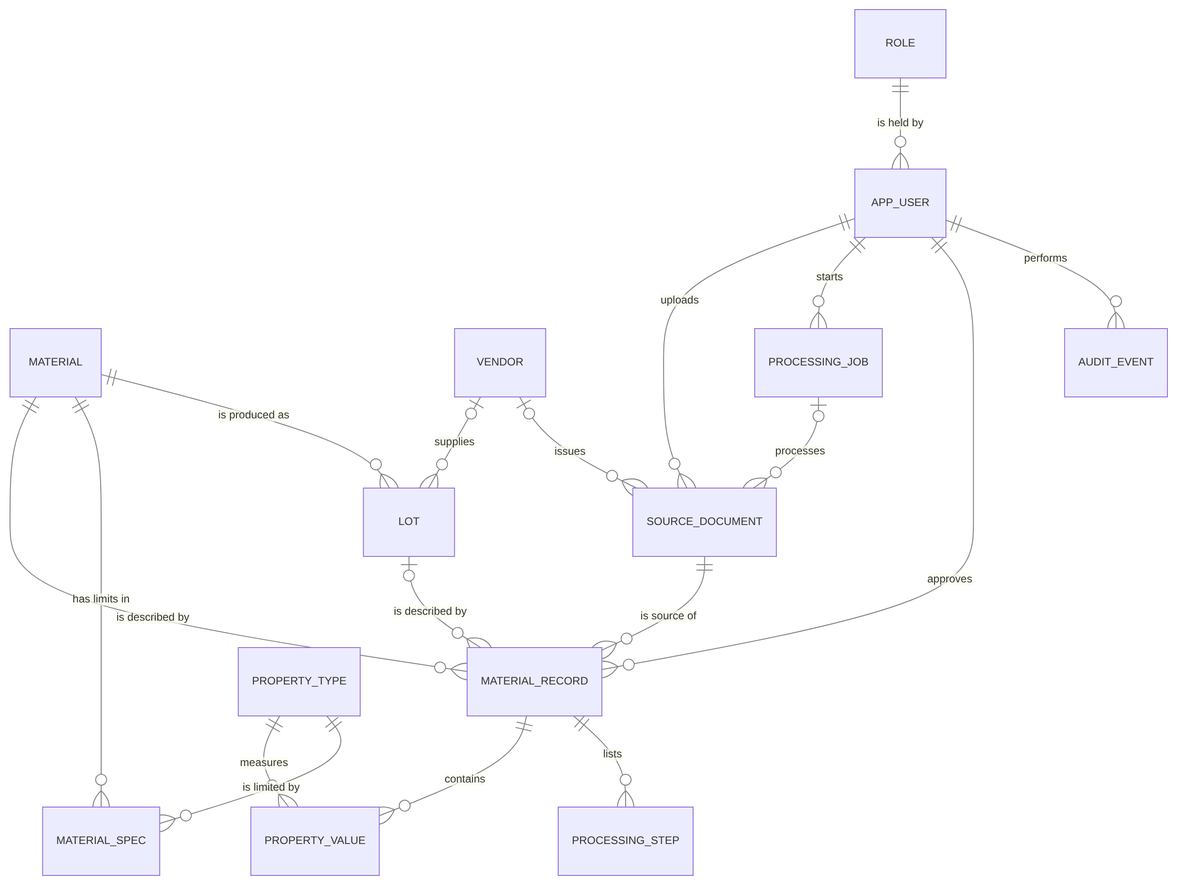
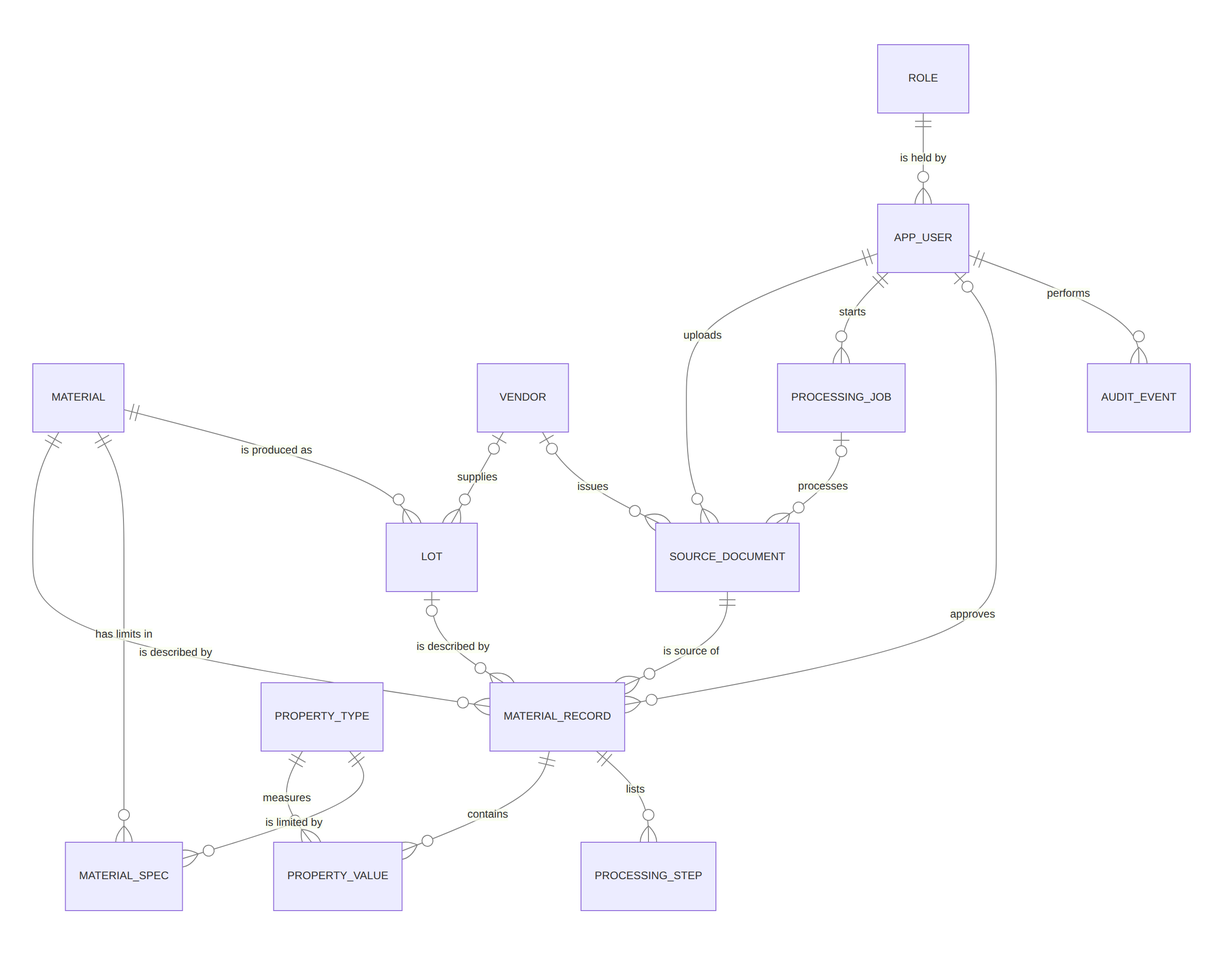
Update ER diagram and its prose (#172)
Snowflake is confirmed and PDFs go to S3 per the 2026-11-15 team call; proposal §4 now explains Figure 2.

Assisted-by: Claude

diff --git a/docs/design/er-diagram.md b/docs/design/er-diagram.md
@@ -1,17 +1,19 @@
 ## Design -- ER Diagram
-Epic: [#42](https://github.com/CPSC490-Team-Proj/CPSC490-G07-MightyMorphin/issues/42) · Stories: [#48](https://github.com/CPSC490-Team-Proj/CPSC490-G07-MightyMorphin/issues/48), [#18](https://github.com/CPSC490-Team-Proj/CPSC490-G07-MightyMorphin/issues/18), [#20](https://github.com/CPSC490-Team-Proj/CPSC490-G07-MightyMorphin/issues/20) · Task: [#38](https://github.com/CPSC490-Team-Proj/CPSC490-G07-MightyMorphin/issues/38)<br>
+Epic: [#42](https://github.com/CPSC490-Team-Proj/CPSC490-G07-MightyMorphin/issues/42) · Stories: [#48](https://github.com/CPSC490-Team-Proj/CPSC490-G07-MightyMorphin/issues/48), [#18](https://github.com/CPSC490-Team-Proj/CPSC490-G07-MightyMorphin/issues/18), [#20](https://github.com/CPSC490-Team-Proj/CPSC490-G07-MightyMorphin/issues/20) · Tasks: [#38](https://github.com/CPSC490-Team-Proj/CPSC490-G07-MightyMorphin/issues/38), [#172](https://github.com/CPSC490-Team-Proj/CPSC490-G07-MightyMorphin/issues/172)<br>
 Owner: Fidelis Okorie · Sprint: 2 · Status: draft
 
 In this document, it defines the relational data model for the verified material
 data described in proposal §3: "materials, mechanical properties, documents,
 vendors, and lots as related records", where "every record keeps a reference
-to the original PDF" and "each correction and approval is logged." It also
+to the copy of the original PDF saved in the sponsor's AWS storage" and "each correction and approval is logged." It also
 stores what the use cases in the use case diagram ([#36](https://github.com/CPSC490-Team-Proj/CPSC490-G07-MightyMorphin/issues/36)) need;
 §3 maps each use case to the tables that support it. It follows the team
-decisions recorded for [#78](https://github.com/CPSC490-Team-Proj/CPSC490-G07-MightyMorphin/issues/78):
-extracted values are stored only once they are approved, the original PDFs stay
-in Edwards' document system (we keep a reference), and every action is logged
-for the administrator.
+decisions recorded for [#78](https://github.com/CPSC490-Team-Proj/CPSC490-G07-MightyMorphin/issues/78) and the team call of
+2026-11-15: Snowflake is the confirmed platform for all structured data
+(extracted, pending, flagged and approved records, plus the audit log); the
+PDF itself is saved to AWS S3 when processing starts, and the database keeps
+only its S3 object key and checksum; only approved records count as verified
+material data; and every action is logged for the Manager.
 
 ## 1. Entity-relationship diagram
 
@@ -36,7 +38,7 @@ erDiagram
   PROCESSING_JOB |o--o{ SOURCE_DOCUMENT : "processes"
   APP_USER ||--o{ SOURCE_DOCUMENT : "uploads"
   APP_USER ||--o{ PROCESSING_JOB : "starts"
-  APP_USER ||--o{ MATERIAL_RECORD : "approves"
+  APP_USER |o--o{ MATERIAL_RECORD : "approves"
   APP_USER ||--o{ AUDIT_EVENT : "performs"
   ROLE ||--o{ APP_USER : "is held by"
 ```
@@ -73,19 +75,19 @@ erDiagram
   MATERIAL_RECORD ||--o{ PROPERTY_VALUE : "contains"
   PROPERTY_TYPE ||--o{ PROPERTY_VALUE : "measures"
   MATERIAL_RECORD ||--o{ PROCESSING_STEP : "lists"
-  APP_USER ||--o{ MATERIAL_RECORD : "approves"
+  APP_USER |o--o{ MATERIAL_RECORD : "approves"
   APP_USER ||--o{ AUDIT_EVENT : "performs"
 
   ROLE {
     int       role_id      PK
-    varchar   name         "unique: R_AND_D, MANUFACTURING, MODELING, SYSTEM_ADMIN"
+    varchar   name         "unique: R_AND_D, MANUFACTURING, MODELING, MANAGER"
   }
   APP_USER {
     int       user_id      PK
     int       role_id      FK
     varchar   email        "unique"
     varchar   display_name
-    boolean   is_active    "an admin deactivates rather than deletes"
+    boolean   is_active    "users are deactivated rather than deleted"
   }
   PROCESSING_JOB {
     int       job_id       PK
@@ -130,9 +132,9 @@ erDiagram
     int       uploaded_by  FK "APP_USER.user_id"
     varchar   doc_type     "COC or TEST_REPORT"
     varchar   input_type   "DIGITAL or SCANNED; every document goes through OCR by default"
-    varchar   pdf_reference "reference to the original PDF in Edwards' document system"
+    varchar   s3_object_key "S3 key of the PDF copy saved when processing starts"
+    varchar   checksum     "checksum of the PDF; shows the copy was not replaced"
     varchar   status       "UPLOADED, PROCESSING, FAILED, UNSUPPORTED or DONE"
-    varchar   review_status "nullable until DONE: PENDING, FLAGGED or APPROVED"
     date      issued_on    "nullable: date printed on the document"
     timestamp uploaded_at
   }
@@ -141,9 +143,10 @@ erDiagram
     int       document_id  FK "not null: source is always kept"
     int       material_id  FK
     int       lot_id       FK "nullable: lot not always on the document"
-    int       approved_by  FK "APP_USER.user_id"
+    int       approved_by  FK "nullable until APPROVED; APP_USER.user_id"
+    varchar   review_status "PENDING, FLAGGED, APPROVED or REJECTED"
     timestamp extracted_at
-    timestamp approved_at  "rows exist only after approval"
+    timestamp approved_at  "nullable until APPROVED"
   }
   PROPERTY_VALUE {
     int       value_id     PK
@@ -189,8 +192,8 @@ Read it with Figure 1 for the relationships.*
 | `LOT` | one production lot of a material | #18: "support lot information when available" |
 | `PROPERTY_TYPE` | one kind of mechanical property and its standard unit | #18: "represent mechanical properties"; lets values and limits be compared |
 | `MATERIAL_SPEC` | the allowed range of one property for one material | #36: View Material Specifications, Compare Data to Specifications, Identify Out-of-Spec Materials |
-| `SOURCE_DOCUMENT` | one uploaded PDF: a reference to the original in Edwards' document system, its processing `status` and its `review_status` | #18: "distinguish CoCs from material test reports" (`doc_type`); #20: source identified as CoC or test report; Goal 1 spec: unsupported documents are rejected |
-| `MATERIAL_RECORD` | the approved material data extracted from one document | #20: "each extracted material record shall retain a reference to its source document" (`document_id`, not null) |
+| `SOURCE_DOCUMENT` | one uploaded PDF: the S3 object key and checksum of its copy, and its processing `status` | #18: "distinguish CoCs from material test reports" (`doc_type`); #20: source identified as CoC or test report; Goal 1 spec: unsupported documents are rejected |
+| `MATERIAL_RECORD` | the material data extracted from one document, with its `review_status`; only `APPROVED` rows are verified material data | #20: "each extracted material record shall retain a reference to its source document" (`document_id`, not null); #19: candidate records and review status |
 | `PROPERTY_VALUE` | one mechanical property value | #18: "represent mechanical properties associated with materials"; §3 verification checks (units, confidence) |
 | `PROCESSING_STEP` | one processing step printed on the document | #36: View Material Processing Info |
 | `AUDIT_EVENT` | one action by a user (upload, view, correction, approval, edit, delete, export) | §3: "each correction and approval is logged"; Goal 2 spec: audit log of record operations; #36: Validate Extracted Data, Export Audit Logs |
@@ -203,12 +206,12 @@ queries over tables already listed.
 
 | Use case (#36) | Tables |
 |---|---|
-| Import PDF Documents | `SOURCE_DOCUMENT` (`pdf_reference`, `status`) |
+| Import PDF Documents | `SOURCE_DOCUMENT` (`s3_object_key`, `checksum`, `status`) |
 | Batch Process Documents | `PROCESSING_JOB`, `SOURCE_DOCUMENT.job_id` |
-| Extract Material Data | `SOURCE_DOCUMENT.status`; values are written to `MATERIAL_RECORD`, `PROPERTY_VALUE` and `PROCESSING_STEP` once approved |
-| Validate Extracted Data | `SOURCE_DOCUMENT.review_status`, `AUDIT_EVENT` (corrections and approvals) |
-| Import Material Records | new `MATERIAL_RECORD` rows, written when a document is approved |
-| Search / Filter Material Records | `MATERIAL`, `VENDOR`, `LOT`, `SOURCE_DOCUMENT.doc_type` |
+| Extract Material Data | `SOURCE_DOCUMENT.status`; values are written to `MATERIAL_RECORD` (`review_status` PENDING or FLAGGED), `PROPERTY_VALUE` and `PROCESSING_STEP` |
+| Validate Extracted Data | `MATERIAL_RECORD.review_status`, `PROPERTY_VALUE.confidence`, `AUDIT_EVENT` (corrections and approvals) |
+| Import Material Records | `MATERIAL_RECORD.review_status` set to APPROVED, with `approved_by` and `approved_at` |
+| Search / Filter Material Records | `MATERIAL`, `VENDOR`, `LOT`, `SOURCE_DOCUMENT.doc_type`; only APPROVED records |
 | View Material Specifications | `MATERIAL_SPEC` |
 | View Material Properties | `PROPERTY_VALUE`, `PROPERTY_TYPE` |
 | View Material Processing Info | `PROCESSING_STEP` |
@@ -219,13 +222,14 @@ queries over tables already listed.
 | Export Results (PDF, DOC, CSV) | *derived*: the same queries as search and compare, plus an `AUDIT_EVENT` with `action = EXPORT` |
 | Manage User Permissions | `ROLE`, `APP_USER.role_id` |
 | Monitor Processing Jobs | `PROCESSING_JOB`, `SOURCE_DOCUMENT.status` |
-| Export Audit Logs | `AUDIT_EVENT` (admin only; not shown in the web app) |
+| Export Audit Logs | `AUDIT_EVENT` (Manager only; not shown in the web app) |
 
 ## 4. Relationships
 
-1. An approved `SOURCE_DOCUMENT` produces one or more `MATERIAL_RECORD`s. Each
-   `MATERIAL_RECORD` has exactly one source document, so a value can always be
-   traced back to its PDF (#20).
+1. A processed `SOURCE_DOCUMENT` produces one or more `MATERIAL_RECORD`s. Each
+   `MATERIAL_RECORD` has exactly one source document, and the document holds
+   the S3 object key and checksum of its PDF, so a value can always be traced
+   back to the file it came from (#20, #21).
 2. A `MATERIAL_RECORD` is for one `MATERIAL` and, when the document gives
    one, one `LOT`.
 3. A `MATERIAL_RECORD` holds many `PROPERTY_VALUE`s and `PROCESSING_STEP`s.
@@ -236,15 +240,17 @@ queries over tables already listed.
 5. A `LOT` belongs to one `MATERIAL` and, when known, one `VENDOR`.
 6. A `PROCESSING_JOB` started by one `APP_USER` processes many
    `SOURCE_DOCUMENT`s; a document uploaded on its own has no job.
-7. A document waits with `review_status` PENDING or FLAGGED until a user with
-   permission corrects and approves it; the uploader is notified, and the
-   document stays in the queue until it is approved. Only then are its values
-   written as `MATERIAL_RECORD` rows, so every row in that table is verified
-   material data (§3). Each `MATERIAL_RECORD` is approved by one `APP_USER`.
+7. Extracted values are written to Snowflake right away as a `MATERIAL_RECORD`
+   with `review_status` PENDING, or FLAGGED when a check fails or confidence is
+   below about 90% (§3). The record waits in the review queue until a user with
+   permission corrects and approves it; the uploader is notified. Only APPROVED
+   records are shown in search and analysis, so they are the verified material
+   data. An approved record has exactly one approving `APP_USER`; a pending one
+   has none yet.
 8. Each `APP_USER` has one `ROLE`.
 9. Every action a user takes (upload, view, correction, approval, edit,
    delete, export) is one `AUDIT_EVENT`. The audit log is not shown in the web
-   app; the administrator exports it.
+   app; the Manager exports it.
 
 ## 5. Key decisions
 
@@ -254,23 +260,30 @@ queries over tables already listed.
 | Naming properties | free-text name on each value · shared `PROPERTY_TYPE` table | `PROPERTY_TYPE` | values and spec limits must name the same property in the same unit to be compared |
 | Keeping the source | file path on each property value · `document_id` on each extracted record | `document_id` on `MATERIAL_RECORD` | one reference per extracted record satisfies #20 without repeating it on every value |
 | Review history | overwrite the value and keep a "reviewed" flag · log only corrections and approvals · append-only log of every action (`AUDIT_EVENT`) | log every action | team decision (#78): Edwards can trace every upload, view, change and export; the Goal 2 spec asks for an audit log of record operations |
-| When extracted values are stored | store every record with a status and hide unapproved ones · store values only once approved | only once approved | team decision (#78): unverified values never enter the materials data; the document itself waits in the review queue with a reference to its PDF |
-| Original PDFs | copy each PDF into our own storage · keep a reference to Edwards' document system | reference only | team decision (#78): Edwards already stores the documents and handles their security |
+| Database product | PostgreSQL on Amazon RDS · Snowflake | Snowflake | the sponsor already uses Snowflake (proposal §3); confirmed at the team call of 2026-11-15, after #78 had listed it as provisional |
+| When extracted values are stored | store every record with a `review_status` and show only approved ones · store values only once approved | store every record with a status | team call 2026-11-15: pending and flagged values stay in Snowflake until reviewed (proposal §3); storing only approved values left the review screen with nowhere to read pending values from |
+| Original PDFs | keep only a reference to Edwards' document system · store the PDF inside Snowflake · save a copy to AWS S3 | S3 copy, referenced by object key and checksum | team call 2026-11-15: the document is saved to S3 at the OCR step, and Snowflake holds only structured data; the checksum lets a reviewer prove the copy was not replaced (Goal 2 spec NFR-4) |
 | Out-of-spec status | stored flag on each value · computed by comparing to `MATERIAL_SPEC` | computed | a stored flag goes stale whenever a spec limit changes |
 | User permissions | one role per user · many roles per user | one role per user | each actor in the use case diagram is a separate group of users |
 
 ## 6. What is NOT designed yet
 
-- **Database product and exact column types.** Snowflake is the provisional
-  choice for storing and analyzing the data, with the app hosted on AWS (#78);
-  the team still has to try Snowflake before confirming. We do not have test documents to see how it all works yet. The
-  types above are generic SQL types.
-- **Where extracted values wait during review.** Values are not stored in these
-  tables until approval, so the review screen needs them from somewhere else
-  (held by the extraction step, or re-extracted when the review opens). Not
-  decided yet.
-- **Retention and deletion.** The Goal 2 spec asks for delete or deactivate
-  "according to the defined retention policy"; that policy is not defined yet.
+- **Final Snowflake schema and column types.** The types above are generic SQL
+  types; the Snowflake tables are built in #152 and #107. Standard Snowflake
+  tables record primary and foreign keys but do not enforce them (only
+  `NOT NULL` is enforced), so the application must check them itself to meet
+  Goal 2 spec NFR-1, which asks that keys and relationships prevent orphaned
+  documents and records. How it does that is not
+  designed yet.
+- **Optional fields and constraints.** Which columns are required, and which
+  values must be unique, depend on what real CoCs and test reports contain.
+- **One database or two.** Proposal §2 and the Goal 2 spec still mention a
+  separate "operational database" for candidate records. This design follows
+  the team call and keeps them in Snowflake. [CONFIRM] with the team.
+- **Retention, deletion and S3 lifecycle.** The Goal 2 spec asks for delete or
+  deactivate "according to the defined retention policy"; that policy, how long
+  the S3 copy is kept, and which bucket is used depend on the sponsor and are
+  not defined yet.
 - **Property names and units.** The team does not yet have real CoCs or test
   reports as mentioned above, so the rows of `PROPERTY_TYPE` are not set in stone and can be changed in the future when documents are acquired.
 - **Where specification limits come from.** For `MATERIAL_SPEC` we are just assuming that Edwards

diff --git a/proposal/proposal.md b/proposal/proposal.md
@@ -200,6 +200,24 @@ The development of the Edwards Lifescience Materials Database requires various s
 Key: Two bars = exactly one; bar and circle = zero or one; circle and fork = zero or many.
 For the Full Column and keys view: `docs/design/er-diagram.md`.
 
+Figure 2 shows the data model behind the materials database. A `MATERIAL` is identified by the material ID printed on the document, and it can be produced as many `LOT`s. A `VENDOR` supplies lots and issues documents, but both links are optional because not every CoC or test report names its vendor or lot. Each uploaded PDF becomes one `SOURCE_DOCUMENT`, which records whether it is a CoC or a test report, who uploaded it, and how far processing has gone. Extraction turns a document into one or more `MATERIAL_RECORD`s, and each record holds one `PROPERTY_VALUE` per mechanical property it reports. Every value points to a shared `PROPERTY_TYPE`, which gives the property one name and one standard unit, so values from different vendors, and the limits in `MATERIAL_SPEC`, can be compared directly. Each value also keeps the unit as it was printed and the extraction confidence, which the review step uses. [[task:#38]](https://github.com/CPSC490-Team-Proj/CPSC490-G07-MightyMorphin/issues/38) · [[task:#107]](https://github.com/CPSC490-Team-Proj/CPSC490-G07-MightyMorphin/issues/107) · [[task:#172]](https://github.com/CPSC490-Team-Proj/CPSC490-G07-MightyMorphin/issues/172)
+
+The remaining tables describe who uses the system and how work moves through it. Each `APP_USER` is an Edwards employee who signs in through Edwards' Microsoft single sign-on, and each user holds exactly one `ROLE`, matching the separate groups of actors in the use case diagram (Figure 1). A user can upload a single document or start a `PROCESSING_JOB` that handles a batch of documents together; a document uploaded on its own simply has no job. Each `SOURCE_DOCUMENT` carries a processing status (uploaded, processing, failed, unsupported or done), so the Monitor Processing Jobs use case can show where every file is without a separate tracking table. `PROCESSING_STEP` stores the processing information printed on a document, such as heat treatment, as ordered text, because the team has not yet seen enough real documents to give it a more detailed structure. [[task:#36]](https://github.com/CPSC490-Team-Proj/CPSC490-G07-MightyMorphin/issues/36) · [[task:#38]](https://github.com/CPSC490-Team-Proj/CPSC490-G07-MightyMorphin/issues/38)
+
+A short example shows how one document moves through these tables. The values here are illustrative only and are not taken from any sponsor document. Suppose a user uploads a CoC for one lot of a material. The upload creates a `SOURCE_DOCUMENT` row marked as a CoC, and the PDF is saved to S3 with its object key and checksum. If the vendor and material are new to the system, extraction adds a `VENDOR` and a `MATERIAL` row, plus a `LOT` row for the lot number printed on the certificate. It then creates one `MATERIAL_RECORD` that ties the document, material and lot together, and one `PROPERTY_VALUE` for each mechanical property reported on the certificate. If the certificate prints a value in a different unit from the standard unit for that `PROPERTY_TYPE`, the value is converted to the standard unit, and the unit as printed is kept in `unit_as_printed` so a reviewer can check the conversion against the PDF. When a second certificate for the same material arrives later from another vendor, it reuses the same `MATERIAL` and `PROPERTY_TYPE` rows, which is what lets the two vendors' results be compared side by side. [[feature:#163]](https://github.com/CPSC490-Team-Proj/CPSC490-G07-MightyMorphin/issues/163) · [[task:#107]](https://github.com/CPSC490-Team-Proj/CPSC490-G07-MightyMorphin/issues/107) · [[task:#109]](https://github.com/CPSC490-Team-Proj/CPSC490-G07-MightyMorphin/issues/109)
+
+The diagram is built so that every value can be traced back to the file it came from. A property value belongs to exactly one material record, and a material record has exactly one source document, which the design marks as required. The source document then stores the AWS S3 object key and a checksum of the PDF, so a reviewer can open the exact file and confirm it has not been replaced. Alongside that chain, every upload, view, correction, approval, edit, delete and export is written to `AUDIT_EVENT` with the user who did it, which gives the Manager a full history of how each record reached its current state. [[task:#109]](https://github.com/CPSC490-Team-Proj/CPSC490-G07-MightyMorphin/issues/109) · [[feature:#163]](https://github.com/CPSC490-Team-Proj/CPSC490-G07-MightyMorphin/issues/163)
+
+Snowflake is the confirmed platform for all of the structured data in Figure 2, including the audit log. Extracted values are written to Snowflake as soon as extraction finishes, with a `review_status` of pending, or flagged when a check fails or the confidence is below about 90%. Only records a user has approved are shown in search and analysis, so those are the verified material data. Snowflake does not store the PDF files themselves. When processing starts, the PDF is saved to the proposed AWS S3 processing storage, and Snowflake keeps only its object key and checksum. [[task:#78]](https://github.com/CPSC490-Team-Proj/CPSC490-G07-MightyMorphin/issues/78) · [[feature:#152]](https://github.com/CPSC490-Team-Proj/CPSC490-G07-MightyMorphin/issues/152) · [[feature:#163]](https://github.com/CPSC490-Team-Proj/CPSC490-G07-MightyMorphin/issues/163) · [[task:#108]](https://github.com/CPSC490-Team-Proj/CPSC490-G07-MightyMorphin/issues/108)
+
+The review process is part of the data model, not something kept outside it. Every new `MATERIAL_RECORD` starts as pending. During verification, the system runs the same OCR tool on each document three times and checks the results for missing required fields, wrong data types or units, values outside plausible ranges, and low confidence. A record that fails any check, or whose confidence stays below about 90%, is marked flagged, and the reason is stored in `flag_reason` on the affected `PROPERTY_VALUE`. A user with permission then compares the values with the PDF, corrects any mistakes, and approves the record; the record's status becomes approved, and the user and time are saved in `approved_by` and `approved_at`. A record can also be rejected. Every correction is written to `AUDIT_EVENT` with the field name and the old and new values, so the history of a value is never lost even after it is fixed. The uploader is notified when their document needs review, and it stays in the review queue until it is resolved. [[feature:#88]](https://github.com/CPSC490-Team-Proj/CPSC490-G07-MightyMorphin/issues/88) · [[feature:#160]](https://github.com/CPSC490-Team-Proj/CPSC490-G07-MightyMorphin/issues/160) · [[feature:#161]](https://github.com/CPSC490-Team-Proj/CPSC490-G07-MightyMorphin/issues/161) · [[feature:#162]](https://github.com/CPSC490-Team-Proj/CPSC490-G07-MightyMorphin/issues/162)
+
+Several features in Goal 3 do not need tables of their own because they are queries over the tables in Figure 2. Search and filtering read `MATERIAL`, `VENDOR`, `LOT` and the document type, limited to approved records. Comparing data to specifications joins each `PROPERTY_VALUE` to the `MATERIAL_SPEC` row with the same material and property type, and a value is out of spec when it falls below `min_value` or above `max_value`. Historical trends order a property's values by the date printed on their source documents, and property ranges are the minimum and maximum of the values for one property type. Exporting results reuses these same queries and adds an `AUDIT_EVENT` with the export action. Only the specification limits need data the team does not have yet: `MATERIAL_SPEC` assumes Edwards can supply an allowed range for each material and property, and that has not been confirmed with the sponsor. [[feature:#90]](https://github.com/CPSC490-Team-Proj/CPSC490-G07-MightyMorphin/issues/90) · [[task:#113]](https://github.com/CPSC490-Team-Proj/CPSC490-G07-MightyMorphin/issues/113) · [[feature:#95]](https://github.com/CPSC490-Team-Proj/CPSC490-G07-MightyMorphin/issues/95) · [[task:#36]](https://github.com/CPSC490-Team-Proj/CPSC490-G07-MightyMorphin/issues/36)
+
+Several design choices in Figure 2 were made over specific alternatives. Property values are stored one row per value in `PROPERTY_VALUE` instead of one column per property on the record, because CoCs and test reports from different vendors list different properties, and a new property should not require changing the schema. Property names live in the shared `PROPERTY_TYPE` table instead of as free text on each value, because a value and a specification limit can only be compared if they name the same property in the same unit. The link to the source is stored once on each `MATERIAL_RECORD` instead of on every property value, which meets the traceability requirement without repeating the same reference many times. Out-of-spec status is calculated when it is needed instead of being stored as a flag, because a stored flag would become wrong whenever a specification limit changed. Unapproved records are stored in Snowflake with a status instead of being kept out of the database until approval; the earlier design left the review screen with nowhere to read pending values from. Original PDFs are copied to S3 instead of being stored inside Snowflake or referenced only in Edwards' own document system, because the team decided to save each document to S3 at the OCR step and to keep Snowflake for structured data only. Finally, every user action is logged instead of only corrections and approvals, so Edwards can trace each upload, view, change and export. [[task:#38]](https://github.com/CPSC490-Team-Proj/CPSC490-G07-MightyMorphin/issues/38) · [[task:#78]](https://github.com/CPSC490-Team-Proj/CPSC490-G07-MightyMorphin/issues/78) · [[task:#172]](https://github.com/CPSC490-Team-Proj/CPSC490-G07-MightyMorphin/issues/172)
+
+Some parts of the model are not decided yet. The column types in the diagram are generic SQL types, and the final Snowflake schema will be set when the tables are built. Standard Snowflake tables record primary and foreign keys but do not enforce them, so the application will have to check those links itself, and how it does that is still open. Which fields are optional or must be unique depends on real CoCs and test reports, which the team does not have yet. The retention policy, how long the S3 copy is kept, and the S3 lifecycle rules depend on the sponsor. [[feature:#152]](https://github.com/CPSC490-Team-Proj/CPSC490-G07-MightyMorphin/issues/152) · [[task:#107]](https://github.com/CPSC490-Team-Proj/CPSC490-G07-MightyMorphin/issues/107) · [[task:#110]](https://github.com/CPSC490-Team-Proj/CPSC490-G07-MightyMorphin/issues/110) · [[task:#172]](https://github.com/CPSC490-Team-Proj/CPSC490-G07-MightyMorphin/issues/172)
+
 ![System architecture showing the web UI, backend API, extraction, data review, analysis and administration modules, Edwards Microsoft SSO, Edwards' existing on-site PDF document system, and the Snowflake (provisional) materials database](../docs/design/system-architecture-diagram.png)
 
 *Figure 3. System Architecture Diagram.*
@@ -224,7 +242,7 @@ Key: Diamond = decision; oval = user entity; cylindar = database; rectangles = p
 | Document | Kind | Covers | Issues |
 |----------|------|--------|--------|
 |[Use Case Diagram](../docs/design/use-case.md)|Design|Maps interactions between external users or systems with the software application's core functions within the system| [#36](https://github.com/CPSC490-Team-Proj/CPSC490-G07-MightyMorphin/issues/36) |
-|[ER Diagram](../docs/design/er-diagram.md)|Design|This defines the relational data model for the material data the system extracts and it verifies them as well, following the company requirements and to meet reliability. The way it works is it stores each uploaded CoC or test report, the material, lot and vendor it describes, and every mechanical property value with its unit and extraction confidence which then could be used to re-review the document to correct any mistakes. Each material record links to exactly one source document so any value can be traced back to its PDF (#20). To keep everything documented as well, every correction and approval is logged. Specification limits also support the out of spec and comparison use cases in the use case diagram, although the details may change upon receiving a test document from the company. The DBMS and the final list of properties are not decided yet; the full diagram with every column is in docs/design/er-diagram.md.|[[task:#38]](https://github.com/CPSC490-Team-Proj/CPSC490-G07-MightyMorphin/issues/38)|
+|[ER Diagram](../docs/design/er-diagram.md)|Design|This defines the relational data model for the material data the system extracts and verifies. It stores each uploaded CoC or test report as a source document, the material, lot and vendor it describes, and every mechanical property value with its unit and extraction confidence. Each material record links to exactly one source document, and the document keeps the AWS S3 object key and checksum of its PDF, so any value can be traced back to the original file. Snowflake is the confirmed platform for all of this structured data, including records that are still pending or flagged for review; only approved records count as verified material data, and the PDFs stay in S3, not in Snowflake. Every user action, including each correction and approval, is logged. Specification limits support the out-of-spec and comparison use cases in the use case diagram. The final Snowflake schema, optional fields and constraints, and the retention and S3 lifecycle rules are not decided yet; the full diagram with every column is in docs/design/er-diagram.md.|[[task:#38]](https://github.com/CPSC490-Team-Proj/CPSC490-G07-MightyMorphin/issues/38) · [[task:#172]](https://github.com/CPSC490-Team-Proj/CPSC490-G07-MightyMorphin/issues/172)|
 |[System Architecture](../docs/design/system-architecture-diagram.md)|Design|Maps out relationships between core components within the system; exported image: [PNG](../docs/design/system-architecture-diagram.png)|[#39](https://github.com/CPSC490-Team-Proj/CPSC490-G07-MightyMorphin/issues/39)|
 |[Data Flow Diagram](../docs/design/data-flow.md)|Design|Maps how information moves, transforms, and stored within the system. Diagram demonstrates how desired media is scanned, stored, and how data is scraped, reviewed, then stored.|[#40](https://github.com/CPSC490-Team-Proj/CPSC490-G07-MightyMorphin/issues/40)|
 |[UI Wireframes](../docs/design/ui-wireframe/ui-wireframe.md)|Design|Primary screen layouts and navigation for upload, review, stored records and analysis; [PNG](../docs/design/ui-wireframe.png) and [editable SVG](../docs/design/ui-wireframe/ui-wireframe.svg)|[#41](https://github.com/CPSC490-Team-Proj/CPSC490-G07-MightyMorphin/issues/41)|
